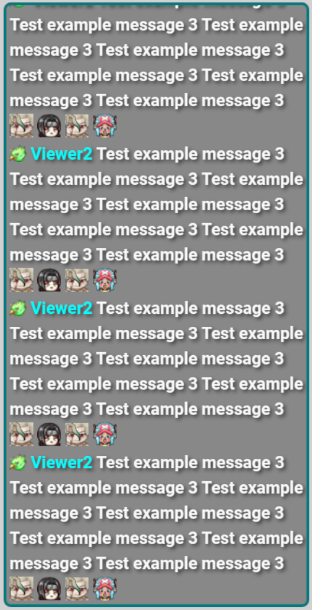
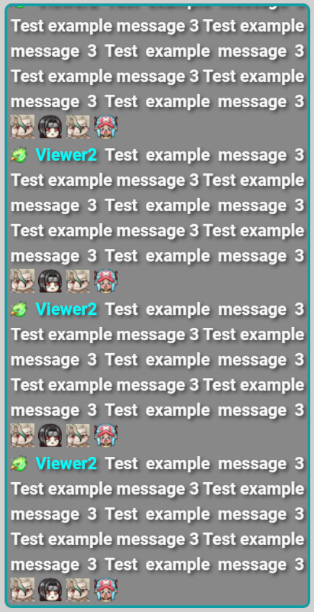
Update image and index code

Changed region(s): [[0.0, 0.0, 1.0, 0.9967]]

diff --git a/index.html b/index.html
@@ -65,7 +65,7 @@
                         color: {text_color};<br>
                         word-wrap: break-word;<br>
                         word-break: normal;<br>
-                        text-align: left;<br>
+                        text-align: justify;<br>
                     }<br>
                     <br>
                     #marco {<br>
@@ -216,7 +216,7 @@
                         color: {text_color};<br>
                         word-wrap: break-word;<br>
                         word-break: normal;<br>
-                        text-align: left;<br>
+                        text-align: justify;<br>
                     }<br>
                     <br>
                     #marco {<br>
@@ -367,7 +367,7 @@
                         color: {text_color};<br>
                         word-wrap: break-word;<br>
                         word-break: normal;<br>
-                        text-align: left;<br>
+                        text-align: justify;<br>
                     }<br>
                     <br>
                     #marco {<br>
@@ -518,7 +518,7 @@
                         color: {text_color};<br>
                         word-wrap: break-word;<br>
                         word-break: normal;<br>
-                        text-align: left;<br>
+                        text-align: justify;<br>
                     }<br>
                     <br>
                     #marco {<br>
